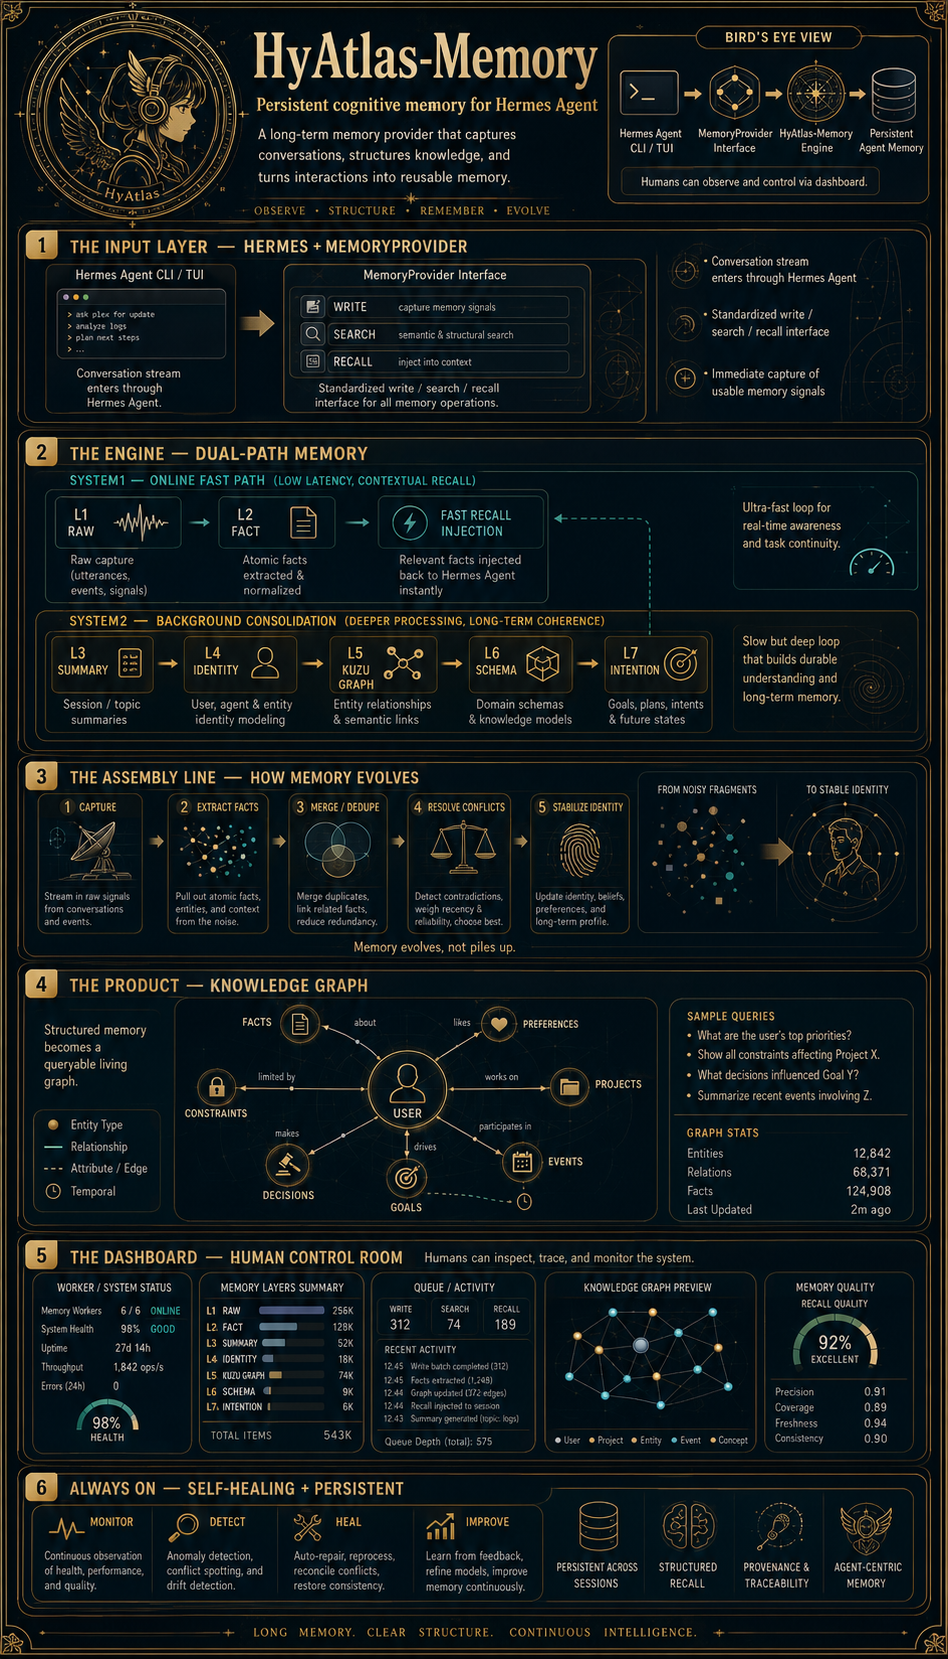
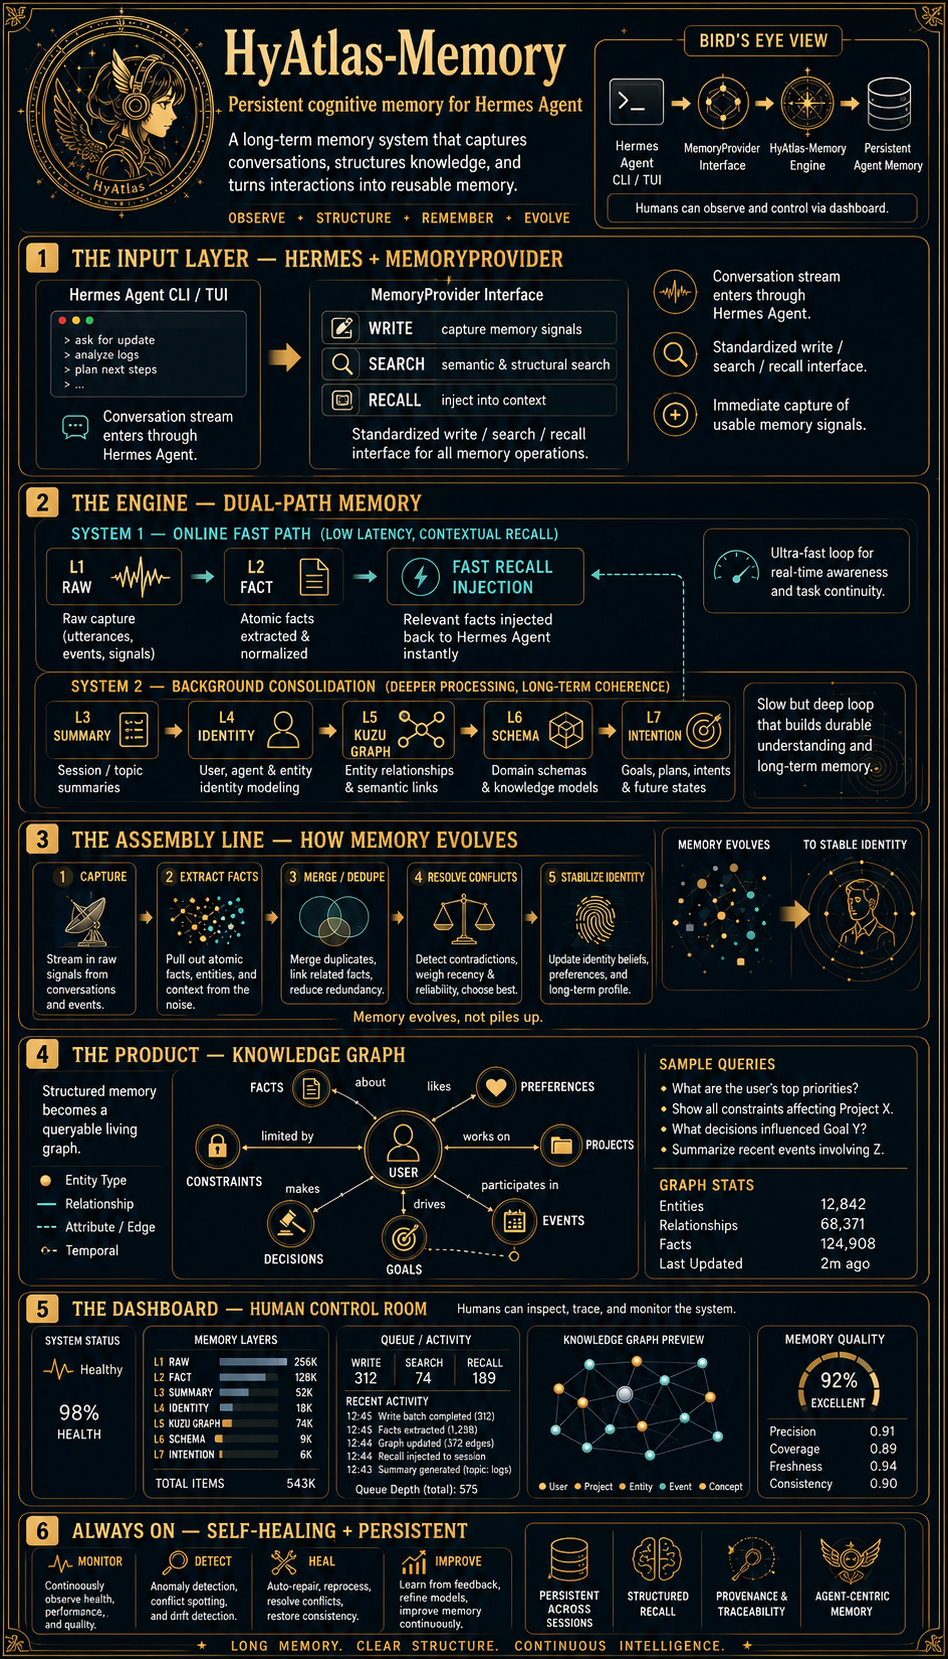
docs(readme): restructure for clarity — plain English up top, technical details at bottom; replace hero with comprehensive overview; add CLI section, source layout, and how-the-pieces-fit explanation

diff --git a/README.md b/README.md
@@ -8,54 +8,36 @@
 </p>
 
 <p align="center">
-  <img src="./assets/hyatlas-architecture.png" alt="HyAtlas-Memory complete system overview: bird's-eye view of the 4-step data flow (Hermes Agent CLI/TUI → MemoryProvider interface → HyAtlas-Memory engine → persistent agent memory), the input layer (WRITE/SEARCH/RECALL), the dual-path engine (System 1 online L1-L2 fast path; System 2 background L3 summary, L4 identity, L5 Kuzu graph, L6 schema, L7 intention), the 5-step evolution assembly line (capture → extract → merge/dedupe → resolve conflicts → stabilize identity), the knowledge graph (USER hub connected to FACTS, PREFERENCES, PROJECTS, EVENTS, GOALS, DECISIONS, CONSTRAINTS with sample queries and live stats), the dashboard (system health, layer counts, queue activity, graph preview, recall quality), and the always-on self-healing layer (monitor, detect, heal, improve, persistent, structured recall, provenance, agent-centric)" width="600" />
+  <img src="./assets/hyatlas-architecture.png" alt="HyAtlas-Memory complete system overview" width="600" />
 </p>
-
-```text
-   ┌──────────── Hermes Agent CLI / TUI ────────────┐
-   │                                                │
-   │   conversation →  MemoryProvider interface     │
-   │                          │                     │
-   └──────────────────────────┼─────────────────────┘
-                              ▼
-   ┌────────── HyAtlas-Memory (this package) ──────────┐
-   │                                                    │
-   │   L1 raw  →  L2 fact  →  L3 summary (every 20)    │
-   │       │           │              │                 │
-   │       └───── L4 identity  ◄──────┘                 │
-   │                  │                                 │
-   │            L5 pipeline (async, Kuzu graph)         │
-   │            L6 schema                              │
-   │            L7 intention (proactive)                │
-   │                                                    │
-   └────────────────────────────────────────────────────┘
-```
 
 ## What it is
 
-HyAtlas-Memory turns your Hermes Agent into something that **remembers and learns across sessions**. Instead of each chat being a blank slate, your agent accumulates a structured 7-layer memory:
+Hermes Agent is powerful, but every conversation starts from zero. You tell it your preferences, your project structure, your coding conventions — and by the next session, it's forgotten all of it.
 
-| Layer | Purpose | Triggers |
-|-------|---------|----------|
-| **L1 raw** | Verbatim session entries, time-ordered | every `add` |
-| **L2 fact** | Atomic facts extracted by LLM | every `add` |
-| **L3 summary** | Periodic L2 rollups (coherent narratives) | every 20 adds |
-| **L4 identity** | Long-lived user/agent facts (preferences, persona) | automatic |
-| **L5 pipeline** | Async ingest into Kuzu graph for relational queries | background |
-| **L6 schema** | Typed entity/relationship schema | L5 step |
-| **L7 intention** | Proactive intent detection, async tasks | L5 step |
+HyAtlas-Memory fixes this. It's a memory provider plugin that drops into Hermes Agent and gives it **persistent, structured memory across sessions**. After a few conversations, your agent knows your name, your stack, your working style, your active projects, and the decisions you've made — without you repeating yourself.
+
+It doesn't just store raw text either. Every message you send flows through a pipeline that extracts facts, resolves conflicts, builds a knowledge graph, and stabilizes a long-term identity profile. The more you use it, the sharper the agent's understanding becomes.
+
+**Three things happen automatically:**
+
+1. **It remembers.** Every conversation is captured, broken into atomic facts, and stored across 7 memory layers.
+2. **It recalls.** When you start a new message, relevant memories are injected into the agent's context before it responds — no tool call needed.
+3. **It evolves.** Background processing merges duplicates, resolves contradictions, and refines the agent's model of you over time.
+
+## How it works
+
+Memory flows through two parallel paths — a fast path for real-time awareness, and a slow path for deep consolidation:
 
 <p align="center">
-  <img src="./assets/02-dual-path-memory.png" alt="HyAtlas-Memory dual-path memory: System 1 online fast path (L1 raw, L2 fact) and System 2 background consolidation (L3 summary, L4 identity, L5 Kuzu graph, L6 schema, L7 intention)" width="900" />
+  <img src="./assets/02-dual-path-memory.png" alt="Dual-path memory: System 1 online fast path (L1 raw, L2 fact, fast recall injection) and System 2 background consolidation (L3 summary, L4 identity, L5 Kuzu graph, L6 schema, L7 intention)" width="900" />
 </p>
 
-Three modes:
+**System 1 — Fast Path** handles every message you send. It captures raw text, extracts atomic facts via LLM, and injects relevant context back into the agent. This happens in milliseconds — you never wait for memory.
 
-- **`lite`** — embedding-only, zero LLM cost (free, fast)
-- **`pro`** — LLM fact extraction + reconciliation
-- **`ultra`** — pro + System2 cognitive layer with Kuzu graph (default; the most powerful)
+**System 2 — Background Consolidation** runs asynchronously. It takes the accumulated facts and builds something deeper: session summaries, identity profiles, a relationship graph, domain schemas, and proactive intent detection. This is where raw data becomes understanding.
 
-## Install
+## Quick start
 
 ```bash
 # 1. Install alongside Hermes Agent
@@ -69,12 +51,12 @@ memory:
 
 That's it. On first launch, HyAtlas-Memory will:
 
-1. Auto-create `~/.hy_memory/` (data dir)
+1. Auto-create `~/.hy_memory/` (data directory)
 2. Initialize the Kuzu graph store
 3. Prompt for one-time setup (vector store choice, LLM key)
-4. Start the local server on port 19527
+4. Start a local server on port 19527
 
-## Configure
+### Configuration
 
 Copy `hy_memory.json.example` to `~/.hy_memory/hy_memory.json`:
 
@@ -99,21 +81,29 @@ Copy `hy_memory.json.example` to `~/.hy_memory/hy_memory.json`:
 }
 ```
 
-Vector store options: `qdrant` (default, fastest), `chroma` (simplest), `faiss` (no daemon).
+**Vector store options:** `qdrant` (default, fastest), `chroma` (simplest), `faiss` (no daemon).
 
-LLM options: any OpenAI-compatible endpoint. Tested with OpenAI, OpenRouter, TokenRouter, DeepSeek, MiniMax, ByteDance. Use `base_url` to point to a local Ollama instance.
+**LLM options:** any OpenAI-compatible endpoint. Tested with OpenAI, OpenRouter, TokenRouter, DeepSeek, MiniMax, ByteDance. Use `base_url` to point to a local Ollama instance.
 
-## Use
+**Three modes:**
 
-The plugin integrates automatically with Hermes Agent. Three things happen:
+| Mode | What it does | Cost |
+|------|-------------|------|
+| `lite` | Embedding-only, zero LLM calls | Free |
+| `pro` | LLM fact extraction + reconciliation | LLM calls per `add` |
+| `ultra` | Pro + System2 cognitive layer with Kuzu graph (default) | LLM calls + background pipeline |
 
-### 1. Recalls happen transparently
+## Using it
 
-When your agent receives a user message, HyAtlas-Memory automatically injects relevant memories into the prompt as a `<relevant-memories>` block. You don't need to call any tool — it just works.
+The plugin integrates automatically with Hermes Agent — no manual tool calls needed.
 
-### 2. The `hy_memory_search` tool is available
+### Memory recall is transparent
 
-Agents (or you in the TUI) can explicitly recall:
+When your agent receives a message, HyAtlas-Memory injects relevant memories into the prompt as a `<relevant-memories>` block. The agent sees your past context without you doing anything.
+
+### Search tool
+
+Agents (or you in the TUI) can explicitly search memories:
 
 ```text
 > /hy_memory_search preferences
@@ -122,58 +112,125 @@ Agents (or you in the TUI) can explicitly recall:
 [normal] Working on HyAtlas extraction (2026-06-16)
 ```
 
-### 3. The dashboard shows everything
+### Dashboard
 
 ```bash
 python -m server.dashboard.dashboard
 # open http://127.0.0.1:8765
 ```
 
-7 tabs: Overview, Explore, Layers, Today, Graph, Activity, Settings. Reads the live server, no setup.
+7 tabs: Overview, Explore, Layers, Today, Graph, Activity, Settings. Reads the live server — no setup, no config.
+
+### CLI
+
+```bash
+hermes hy-memory doctor    # health check
+hermes hy-memory add       # manually add a memory
+hermes hy-memory search    # manual search
+hermes hy-memory list      # list recent memories
+hermes hy-memory init      # interactive setup wizard
+hermes hy-memory reset     # erase all memories (destructive)
+```
+
+## The 7 memory layers
+
+Every piece of memory lives in one of seven layers, each with a specific purpose and trigger:
+
+| Layer | Purpose | Triggers |
+|-------|---------|----------|
+| **L1 raw** | Verbatim session entries, time-ordered | every `add` |
+| **L2 fact** | Atomic facts extracted by LLM | every `add` |
+| **L3 summary** | Periodic L2 rollups (coherent narratives) | every 20 adds |
+| **L4 identity** | Long-lived user/agent facts (preferences, persona) | automatic |
+| **L5 pipeline** | Async ingest into Kuzu graph for relational queries | background |
+| **L6 schema** | Typed entity/relationship schema | L5 step |
+| **L7 intention** | Proactive intent detection, async tasks | L5 step |
+
+L1–L2 run on the fast path (every message). L3–L7 run on the background path (async). L7 is an experimental extension — proactive intent detection that surfaces follow-up questions and task suggestions the agent should consider.
+
+### Knowledge graph
+
+The L5 pipeline builds a living graph of entities and their relationships — not just keyword matches, but typed semantic connections you can query:
+
+<p align="center">
+  <img src="./assets/03-knowledge-graph.png" alt="Knowledge graph: 8 node types (user, facts, preferences, events, projects, constraints, decisions, goals) connected by typed semantic edges, with LINK / QUERY / TRACE / REASON operations" width="900" />
+</p>
+
+The graph centers on the user and connects to facts, preferences, projects, events, goals, decisions, and constraints — each with typed edges like "works on", "likes", "drives", "limited by". You can query it directly:
+
+- What are the user's top priorities?
+- Show all constraints affecting Project X.
+- What decisions influenced Goal Y?
+
+## Memory evolution
+
+HyAtlas-Memory doesn't just accumulate — it refines. Each `add` flows through a deterministic evolution pipeline:
+
+1. **Extract** — pull atomic facts, entities, and context from new material
+2. **Merge / dedupe** — combine duplicates, normalize, unify meaning
+3. **Resolve conflicts** — weigh recency, confidence, and user feedback
+4. **Stabilize identity** — update the long-term profile only when confidence crosses a threshold
+
+The result is a signal-to-noise ratio that improves with every session. Raw conversation fragments get distilled into a small, queryable, evolving model of the user.
+
+<p align="center">
+  <img src="./assets/04-memory-evolution.png" alt="Memory evolution: raw fragments flow through extract → merge/dedupe → resolve conflicts into a stable identity profile; signal rises, noise falls" width="900" />
+</p>
 
 ## Architecture
 
 ```text
+   ┌──────────── Hermes Agent CLI / TUI ────────────┐
+   │                                                │
+   │   conversation →  MemoryProvider interface     │
+   │                          │                     │
+   └──────────────────────────┼─────────────────────┘
+                              ▼
+   ┌────────── HyAtlas-Memory (this package) ──────────┐
+   │                                                    │
+   │   L1 raw  →  L2 fact  →  L3 summary (every 20)    │
+   │       │           │              │                 │
+   │       └───── L4 identity  ◄──────┘                 │
+   │                  │                                 │
+   │            L5 pipeline (async, Kuzu graph)         │
+   │            L6 schema                              │
+   │            L7 intention (proactive)                │
+   │                                                    │
+   └────────────────────────────────────────────────────┘
+```
+
+### Source layout
+
+```text
 src/hyatlas_memory/        # the plugin (Python package)
-  __init__.py              # HyMemoryProvider (entry point)
-  client.py                # HTTP client to the local server
-  patches.py               # the 9 carried patches (L1 dedup, L3 trigger, etc.)
-  context_pressure.py      # System2 context-budget enforcement
-  process.py               # subprocess management for the local server
-  embed_server.py          # local sentence-transformers embedder
-  init_wizard.py           # first-run setup wizard
-  installer.py             # one-time pip-deps install
-  cli.py                   # `python -m hyatlas_memory ...`
+  __init__.py              # HyMemoryProvider — entry point, registers with Hermes
+  client.py                # HTTP client to the local server (urllib, zero deps)
+  patches.py               # 9 carried patches (L1 dedup, L3 trigger, rerank, etc.)
+  context_pressure.py      # 4-tier token budget monitor (fastpath → emergency)
+  process.py               # subprocess lifecycle for the local server
+  embed_server.py          # local SentenceTransformers embedder (OpenAI-compatible)
+  init_wizard.py           # first-run interactive setup wizard
+  installer.py             # one-time pip-deps installer
+  cli.py                   # `hermes hy-memory doctor|add|search|list|init|reset`
   plugin.yaml              # legacy plugin manifest (kept for back-compat)
 
 server/                    # standalone server (auto-started by plugin)
-  start_server.py          # uvicorn launcher
-  bin/                     # L5 pipeline scripts
-  dashboard/               # local web UI
+  start_server.py          # uvicorn launcher, reads hy_memory.json + .env
+  bin/                     # L5 pipeline scripts (7-step graph rebuild)
+  dashboard/               # local web UI (7 tabs, port 8765)
 
 tests/                     # pytest suite
 docs/                      # architecture + migration notes
-assets/                    # icons, banner
+assets/                    # infographic images
 ```
 
-<p align="center">
-  <img src="./assets/03-knowledge-graph.png" alt="HyAtlas-Memory knowledge graph: 8 node types (user, facts, preferences, events, projects, constraints, decisions, goals) connected by typed semantic edges, with LINK / QUERY / TRACE / REASON operations" width="900" />
-</p>
+### How the pieces fit
 
-## Memory evolution
-
-HyAtlas-Memory does not just append — it refines. Each `add` flows through a small, deterministic evolution pipeline that turns fragments of conversation into a stable identity profile:
-
-1. **Extract** entities, topics, preferences, intents from the new material.
-2. **Merge / dedupe** against existing facts (normalise, unify meaning).
-3. **Resolve conflicts** by weighing recency, confidence, and user feedback.
-4. **Update the stable identity profile** only when a value crosses a confidence threshold.
-
-The result is a signal/noise ratio that improves with every session rather than degrading. By the time the system has seen a few hundred interactions, raw conversation fragments have been distilled into a small, queryable, *evolving* model of the user.
-
-<p align="center">
-  <img src="./assets/04-memory-evolution.png" alt="HyAtlas-Memory memory evolution: raw conversation fragments flow through extract → merge/dedupe → resolve conflicts into a stable identity profile; a memory-evolution-over-time line graph shows signal rising and noise falling, with a memory maturity index of 87/100" width="900" />
-</p>
+- **Plugin** (`src/hyatlas_memory/`) is a thin client. It implements the `MemoryProvider` interface that Hermes Agent calls. It doesn't do heavy lifting — it talks to a local server over HTTP.
+- **Server** (auto-started on port 19527) runs the upstream `hy-memory` SDK. This is where embedding, LLM extraction, and vector search happen. The plugin manages its lifecycle as a subprocess.
+- **L5 pipeline** (`server/bin/`) is a 7-step batch job that rebuilds the Kuzu graph: stop server → extract facts → resolve entities → quality review → rebuild graph → export JSON → restart server. Runs async, takes minutes for thousands of facts.
+- **Context pressure** (`context_pressure.py`) monitors the agent's context window. At 50% usage it starts compressing old tool outputs to ref files. At 95% it aggressively prunes to prevent overflow. This is plugin-layer — no SDK changes needed.
+- **9 patches** (`patches.py`) are applied at import time. They fix upstream SDK issues: LLMConfig env-loading, cross-encoder rerank, in-process embedding, L3 trigger reachability, L1 dedup gate, and more. Each patch is idempotent and documented inline.
 
 ## Development
 
@@ -219,7 +276,7 @@ MIT. See `LICENSE`.
 
 ## Credits
 
-Built on the [official Hy-Memory framework](https://memory.hunyuan.tencent.com) by **Tencent Hunyuan**. This community implementation targets the [Hermes Agent](https://github.com/NousResearch/hermes-agent) runtime; the official framework also provides integrations for OpenClaw and OpenCode via the same SDK.
+Built by [Tuan Dev](https://tuancookiez-hub.github.io/tuandev-portfolio/). Architecture inspired by the [Hy-Memory framework](https://memory.hunyuan.tencent.com) (Tencent Hunyuan) and the cognitive-architecture literature on dual-process theory (Kahneman's System 1 / System 2). The L7 intention layer is an independent extension not part of the official spec.
 
 Uses:
 
@@ -228,6 +285,4 @@ Uses:
 - [SentenceTransformers](https://www.sbert.net/) — local embedding model
 - [Hermes Agent](https://github.com/NousResearch/hermes-agent) — the host agent runtime
 
-Architecture inspired by the cognitive-architecture literature on dual-process theory (Kahneman's System 1 / System 2) and by existing systems in the same family (Mnemosyne, Hindsight, OpenClaw's mem-agent).
-
-**Not affiliated with Tencent.** HyAtlas-Memory is an independent community project; the Hy-Memory name and the 6-layer model are referenced here for source-of-truth accuracy and to credit the canonical design.
+**Not affiliated with Tencent.** HyAtlas-Memory is an independent project; the Hy-Memory name is referenced to credit the architectural inspiration.
